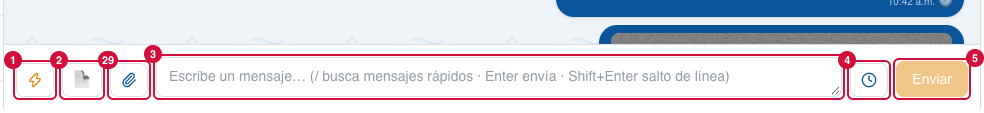
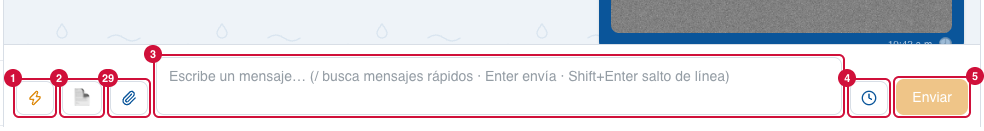
fix(chat+automatizacion): comandos con ñ (/tamaños) y caja para escribir que crece sola
- Comando del vendedor: acepta la ñ (letras sin acento, números y guiones).
  Una sola regla en lib/workflows/steps.ts (NFC: la ñ pegada como n + tilde
  cuenta igual); el hilo y el composer ya no tienen copia propia. El menú "/"
  encuentra comandos sin importar acentos ni la ñ ("/taman" → /tamaños).
- Caja para escribir: empieza con 2 renglones y crece sola desde el 3.º hasta
  el 40 % de la pantalla; después se desliza por dentro. Vacía no se mide por el
  texto gris (sin brinco). El historial sigue pegado abajo mientras crece.
- Docs: mapa-crm (Glosario, caja 3 y 7, Automatización 22, captura nueva
  04-composer-largo y 04-composer rehecha) y bandeja.md.

Sin migración.

diff --git a/app/(app)/dashboard/_components/composer.tsx b/app/(app)/dashboard/_components/composer.tsx
@@ -11,7 +11,9 @@
 // Adjuntos (28-sep-2026): 📎 abre el selector, Cmd+V pega una foto o captura y
 // arriba de la caja va la vista previa; el texto, si hay, sale como pie del
 // PRIMER archivo. Enviar espera a que todos terminen de subir.
-import { useEffect, useRef, useState } from "react";
+// La caja empieza con 2 renglones y crece sola desde el 3.º (28-sep-2026: lo
+// escrito se perdía arriba); pasado el tope (max-h) se desliza por dentro.
+import { useEffect, useLayoutEffect, useRef, useState } from "react";
 import { Clock, Paperclip, Zap } from "lucide-react";
 import { CHAT_CAPTION_MAX } from "@/lib/chat-attachments/rules";
 import { AttachmentTray } from "./attachment-tray";
@@ -19,12 +21,33 @@ import type { ChatAttachments } from "./use-chat-attachments";
 import { useSession } from "@/lib/auth/client";
 import { listSnippets } from "@/lib/actions/snippets";
 import { listWorkflowCommands } from "@/lib/actions/workflows";
-import { applySlashInsert, filterSnippets, findSlashQuery } from "@/lib/snippets/slash";
+import { applySlashInsert, filterSnippets, findSlashQuery, normalizeForSearch } from "@/lib/snippets/slash";
 import type { SnippetView } from "@/lib/snippets/types";
 import { renderSnippet } from "@/lib/snippets/variables";
+import { parseCommand } from "@/lib/workflows/steps";
 import { ScheduleForm } from "./schedule-form";
 import { SnippetPicker } from "./snippet-picker";
 import { TemplatePicker } from "./template-picker";
+
+// Alto justo para el texto, entre los 2 renglones de `rows` y el max-height de la clase.
+// Vacía se queda en 2 renglones: Chrome mide también el texto gris de ayuda, y
+// la caja daría un brinco al escribir la primera letra.
+function fitToContent(el: HTMLTextAreaElement) {
+  if (!el.value) {
+    el.style.height = "";
+    el.style.overflowY = "";
+    return;
+  }
+  const style = getComputedStyle(el);
+  const borders = parseFloat(style.borderTopWidth) + parseFloat(style.borderBottomWidth);
+  const max = parseFloat(style.maxHeight) || Number.POSITIVE_INFINITY;
+  const scrollTop = el.scrollTop;
+  el.style.height = "auto";
+  const wanted = el.scrollHeight + borders;
+  el.style.height = `${Math.min(wanted, max)}px`;
+  el.style.overflowY = wanted > max ? "auto" : "hidden";
+  el.scrollTop = scrollTop;
+}
 
 export function Composer({
   conversationId,
@@ -79,9 +102,11 @@ export function Composer({
   const slashOpen = slash !== null;
   const slashQuery = slash?.query ?? null;
   const matches = slashQuery !== null && snippets ? filterSnippets(snippets, slashQuery) : [];
+  // Sin acentos ni ñ para buscar: "/taman" también encuentra /tamaños.
+  const commandQuery = slashQuery !== null ? normalizeForSearch(slashQuery) : null;
   const commandMatches =
-    slashQuery !== null
-      ? commands.filter((c) => c.command.slice(1).startsWith(slashQuery.toLowerCase()) || c.name.toLowerCase().includes(slashQuery.toLowerCase()))
+    commandQuery !== null
+      ? commands.filter((c) => normalizeForSearch(c.command.slice(1)).startsWith(commandQuery) || normalizeForSearch(c.name).includes(commandQuery))
       : [];
 
   // Carga los fragmentos la primera vez que se abre el buscador con "/".
@@ -114,6 +139,26 @@ export function Composer({
       pendingCaret.current = null;
     }
   }, [draft]);
+
+  // Crece o encoge con cada cambio del texto (escribir, pegar, insertar, enviar).
+  useLayoutEffect(() => {
+    const el = textareaRef.current;
+    if (el) fitToContent(el);
+  }, [draft, windowOpen]);
+
+  // Y cuando cambia el ancho (abrir o cerrar la lista o el panel re-acomoda los renglones).
+  useEffect(() => {
+    const el = textareaRef.current;
+    if (!el || typeof ResizeObserver === "undefined") return;
+    let width = el.clientWidth;
+    const observer = new ResizeObserver(() => {
+      if (el.clientWidth === width) return;
+      width = el.clientWidth;
+      fitToContent(el);
+    });
+    observer.observe(el);
+    return () => observer.disconnect();
+  }, [windowOpen]);
 
   function fill(body: string): string {
     return sellerName ? renderSnippet(body, { vendedor: sellerName }) : body;
@@ -393,7 +438,8 @@ export function Composer({
               event.preventDefault();
               // Solo si el texto es EXACTAMENTE el comando ("/tabla"), nunca por prefijo:
               // "/t" + Enter no debe mandar nada al cliente.
-              const exact = commands.find((c) => c.command === draft.trim().toLowerCase());
+              const typed = parseCommand(draft);
+              const exact = typed ? commands.find((c) => c.command === typed) : undefined;
               if (exact) runCommand(exact.command);
               return;
             }
@@ -424,12 +470,12 @@ export function Composer({
               submit();
             }
           }}
-          rows={1}
+          rows={2}
           aria-autocomplete="list"
           placeholder={
             hasFiles ? "Agrega un mensaje (opcional)" : "Escribe un mensaje… (/ busca mensajes rápidos · Enter envía · Shift+Enter salto de línea)"
           }
-          className="max-h-32 min-h-[40px] flex-1 resize-y rounded-md border bg-background px-3 py-2 text-sm outline-none transition-colors placeholder:text-muted-foreground/60 focus:border-brand-navy focus:ring-2 focus:ring-brand-navy/30"
+          className="max-h-[40vh] flex-1 resize-none overflow-y-hidden rounded-md border bg-background px-3 py-2 text-sm outline-none transition-colors placeholder:text-muted-foreground/60 focus:border-brand-navy focus:ring-2 focus:ring-brand-navy/30"
         />
         <button
           type="button"

diff --git a/app/(app)/dashboard/_components/chat-thread.tsx b/app/(app)/dashboard/_components/chat-thread.tsx
@@ -5,6 +5,7 @@ import type { AdReferral, AttachmentView, ConversationDetail, MessageView } from
 import { useFunnelStages } from "../../_components/funnel-stages-provider";
 import { listMessages, retryMessage, sendMessage, sendTemplate } from "@/lib/inbox/actions";
 import { runWorkflowCommand } from "@/lib/actions/workflows";
+import { parseCommand } from "@/lib/workflows/steps";
 import { sendAttachments } from "@/lib/inbox/attachment-actions";
 import { attachmentAcceptAttr } from "@/lib/chat-attachments/rules";
 import { Composer } from "./composer";
@@ -403,11 +404,23 @@ export function ChatThread({
     }
   }, [rows.length, lastKey, scheduledCount, conversationId, noticeCount]);
 
+  // La caja para escribir crece con el texto (28-sep-2026) y encoge el
+  // historial: si el vendedor estaba abajo, el último mensaje sigue a la vista.
+  useEffect(() => {
+    const el = scrollRef.current;
+    if (!el || typeof ResizeObserver === "undefined") return;
+    const observer = new ResizeObserver(() => {
+      if (nearBottomRef.current) el.scrollTop = el.scrollHeight;
+    });
+    observer.observe(el);
+    return () => observer.disconnect();
+  }, []);
+
   // "/tabla" y similares (Fase D): si el texto es un comando de workflow, se
   // dispara la automatización; si no corresponde a ninguno, sale como texto.
   const [commandNotice, setCommandNotice] = useState<string | null>(null);
   async function doSendOrCommand(text: string) {
-    if (!/^\/[a-z0-9][a-z0-9-]{0,29}$/i.test(text.trim())) return doSend(text);
+    if (!parseCommand(text)) return doSend(text);
     const result = await runWorkflowCommand({ conversationId, text });
     if (!result.ok) {
       if ("notCommand" in result) return doSend(text);

diff --git a/lib/workflows/steps.ts b/lib/workflows/steps.ts
@@ -44,11 +44,19 @@ export function sendsToCustomer(step: StepPayload): boolean {
 }
 
 // Comando del vendedor: "/algo" en minúsculas, sin espacios; null = sin comando.
+// Letras sin acento y la ñ (28-sep-2026, pedido del dueño: "/tamaños"), números
+// y guiones. Única definición: el editor, el composer y el hilo pasan por aquí.
+const COMMAND_RE = /^\/[a-z0-9ñ][a-z0-9ñ-]{0,29}$/;
+
+// NFC: una "ñ" pegada como "n" + tilde combinada cuenta igual que la del teclado.
+function normalizeCommand(text: string): string {
+  return text.normalize("NFC").trim().toLowerCase();
+}
+
 export const commandSchema = z
   .string()
-  .trim()
-  .toLowerCase()
-  .regex(/^\/[a-z0-9][a-z0-9-]{0,29}$/, "Un comando es /palabra (letras, números y guiones).")
+  .transform(normalizeCommand)
+  .pipe(z.string().regex(COMMAND_RE, "Un comando es /palabra: letras sin acento (la ñ sí), números y guiones."))
   .nullable();
 
 // Palabras clave del cliente: 1–5 palabras cada una, sin repetir, máx. 20.
@@ -105,8 +113,8 @@ export function stripUnresolvedVariables(text: string): string {
 
 // Un comando del vendedor es el mensaje ENTERO ("/tabla"), sin texto extra.
 export function parseCommand(message: string): string | null {
-  const t = message.trim().toLowerCase();
-  return /^\/[a-z0-9][a-z0-9-]{0,29}$/.test(t) ? t : null;
+  const t = normalizeCommand(message);
+  return COMMAND_RE.test(t) ? t : null;
 }
 
 // Pasos "Esperar" (28-sep-2026, pedido del dueño): un "/" del VENDEDOR (trigger

diff --git a/lib/workflows/steps.test.ts b/lib/workflows/steps.test.ts
@@ -42,6 +42,17 @@ describe("comandos y palabras clave", () => {
     expect(parseCommand("/banco ahora")).toBeNull();
     expect(parseCommand("hola /banco")).toBeNull();
   });
+  it("comando con ñ (/tamaños): se acepta, en minúsculas y igual si la ñ llega descompuesta; acentos no", () => {
+    const decomposed = "/taman\u0303os"; // "n" + tilde combinada (texto pegado)
+    expect(commandSchema.parse(" /Tamaños ")).toBe("/tamaños");
+    expect(commandSchema.parse("/ÑANDU")).toBe("/ñandu");
+    expect(commandSchema.parse(decomposed)).toBe("/tamaños");
+    expect(() => commandSchema.parse("/tamaño-estándar")).toThrow(/la ñ sí/);
+    expect(() => commandSchema.parse("/-tamaños")).toThrow();
+    expect(parseCommand("/TAMAÑOS")).toBe("/tamaños");
+    expect(parseCommand(decomposed)).toBe("/tamaños");
+    expect(parseCommand("/tamaños por favor")).toBeNull();
+  });
   it("palabras clave: sin duplicados, coincidencia 'contiene' como GHL, sin mayúsculas ni acentos", () => {
     expect(keywordsSchema.parse(["Tabla", "tabla", "tamaños"])).toEqual(["tabla", "tamaños"]);
     expect(matchesKeyword("Me pasas la TABLA de tamanos?", ["tabla"])).toBe("tabla");

diff --git a/docs/mapa-crm.md b/docs/mapa-crm.md
@@ -49,7 +49,7 @@ Nadie es "dueño" de un contacto: **todos ven todos los contactos, siempre**.
 | **Plantilla** | Mensaje fijo **aprobado por Meta** para escribir fuera de la ventana de 24 h. Sus huecos se llaman {{1}}, {{2}}… |
 | **Mensaje rápido** | Respuesta guardada por el equipo para contestar más rápido dentro de las 24 h (antes se llamaba "Fragmento"). Se inserta con "/" o con ⚡ y **no se manda sola**: la revisas y le das Enviar. Si lleva {{vendedor}}, se llena solo con tu nombre; {{nombre}} lo completas tú. Diluvium tiene 22 (Buenos días, Precio, Pagos…). |
 | **Workflow** | Secuencia de pasos (texto, archivo con pie, espera) que manda material: tabla de tamaños, datos bancarios, videos. Lo dispara el agente, un **comando** del vendedor, una **palabra clave** del cliente o la entrada a una etapa. Las **esperas** solo aplican al agente, a la palabra clave y a la etapa: con un comando del vendedor sale de inmediato. |
-| **Comando** | Atajo que escribe el vendedor en el chat para mandar un workflow: /tabla, /banco, /video… Sale **de inmediato** (se salta los pasos ⏱ Esperar); el cliente lo recibe en lo que tarda WhatsApp (~5 s). |
+| **Comando** | Atajo que escribe el vendedor en el chat para mandar un workflow: /tabla, /banco, /video… Se escribe con letras sin acento (la **ñ** sí: /tamaños), números y guiones. Sale **de inmediato** (se salta los pasos ⏱ Esperar); el cliente lo recibe en lo que tarda WhatsApp (~5 s). |
 | **Adjuntar (📎)** | Mandar fotos, videos o documentos desde el chat: se arrastran sobre el chat, se eligen con 📎 o se pegan con Cmd+V. Hasta **10 por envío**, uno por mensaje y en orden; el texto va como pie del primero. Fotos JPG/PNG (HEIC y WebP se pasan solas a JPG), video .mp4 hasta 16 MB, PDF/Word/Excel/PowerPoint/TXT/XML hasta 100 MB. GIF, ZIP o audio: se mandan desde el celular. |
 | **Corrida** | Cada vez que un workflow se ejecutó (Hecho, Omitido, Falló…). |
 | **Biblioteca** | Los archivos (imágenes y videos) que usan los workflows. |
@@ -273,6 +273,7 @@ Donde el vendedor escribe. Con la ventana de 24 h abierta se escribe libre y se 
 solo plantilla (y no se pueden adjuntar).
 
 ![Caja para escribir](mapa-crm/04-composer.png)
+![Mensaje largo: la caja crece para que se vea todo](mapa-crm/04-composer-largo.png)
 ![Capa al arrastrar archivos sobre el chat](mapa-crm/04-composer-capa.png)
 ![Archivos adjuntos antes de enviar](mapa-crm/04-composer-adjuntos.png)
 ![Menú al escribir "/"](mapa-crm/04-composer-slash.png)
@@ -286,11 +287,11 @@ solo plantilla (y no se pueden adjuntar).
 |---|---|---|---|
 | 1 | **⚡ Mensajes rápidos** | Abre la ventana de mensajes rápidos (27–28) para insertar uno. | Todos |
 | 2 | **📄 Plantillas** | Abre las plantillas aprobadas por Meta. | Todos |
-| 3 | **Escribe un mensaje…** | Caja de texto. **Enter** envía, **Shift+Enter** hace salto de línea, **"/"** busca mensajes rápidos (el texto gris dice "/ busca mensajes rápidos"). **Cmd+V** con una foto o captura de pantalla la adjunta. | Todos |
+| 3 | **Escribe un mensaje…** | Caja de texto. Empieza con 2 renglones y **crece sola** desde el 3.º para que se vea todo lo escrito (el historial se acomoda arriba); pasado el 40 % de la pantalla se desliza por dentro, y al enviar vuelve a 2 renglones. **Enter** envía, **Shift+Enter** hace salto de línea, **"/"** busca mensajes rápidos (el texto gris dice "/ busca mensajes rápidos"). **Cmd+V** con una foto o captura de pantalla la adjunta. | Todos |
 | 4 | **🕒 Programar mensaje** | Abre el formulario para programar. Con archivos adjuntos se apaga: programar no lleva archivos por ahora. | Todos |
 | 5 | **Enviar** (naranja) | Manda el mensaje. Con archivos, se activa cuando **todos terminaron de subir**; salen uno por mensaje en el orden de la vista previa y el texto va como pie del primero. | Todos |
 | 6 | **⚡ Mensajes rápidos** (menú del "/") | Menú que aparece al escribir "/". | Todos |
-| 7 | **Automatizaciones** | Comandos de workflows (/tabla, /banco, /video…) con "▶ ejecutar": manda ese material en el chat **de inmediato** (sin los pasos ⏱ Esperar del workflow). Cuenta como mensaje del vendedor. | Todos |
+| 7 | **Automatizaciones** | Comandos de workflows (/tabla, /banco, /video…) con "▶ ejecutar": manda ese material en el chat **de inmediato** (sin los pasos ⏱ Esperar del workflow). Cuenta como mensaje del vendedor. Se encuentran sin importar acentos ni la ñ ("/taman" encuentra /tamaños). | Todos |
 | 8 | **Lista de mensajes rápidos** | Nombre y texto; al elegir uno se pone en lugar del "/". Solo {{vendedor}} se llena solo (con tu nombre); {{nombre}} lo completas tú. | Todos |
 | 9 | **↑↓ elegir · Enter insertar · Esc cerrar** | Ayuda de teclas del menú. | Todos |
 | 10 | **"/" en la caja** | Lo que escribes después de "/" filtra la lista por nombre y texto, sin importar acentos ni mayúsculas ("cuanta" encuentra "Cuánta agua entra"). | Todos |
@@ -711,7 +712,7 @@ Los **workflows** (envíos de material), la **Biblioteca** de archivos y las **C
 | 19 | **Cuándo usarlo** | Texto que lee el agente para decidir si lo manda. | Todos |
 | 20 | **Disparadores** | Las formas de dispararlo (21–24). | Todos |
 | 21 | **El Agente IA puede dispararlo** | Casilla. | Todos |
-| 22 | **Comando del vendedor (en el chat)** | p. ej. /tabla. | Todos |
+| 22 | **Comando del vendedor (en el chat)** | p. ej. /tabla. Letras sin acento (la **ñ** sí: /tamaños), números y guiones; si lleva acento o espacio, no se guarda y lo avisa arriba. | Todos |
 | 23 | **Al entrar a la etapa** | Se manda solo cuando el contacto entra a esa etapa. | Todos |
 | 24 | **Palabras clave del cliente** | Separadas por coma; palabra completa, sin importar acentos. | Todos |
 | 25 | **Pasos (en orden)** | Lo que manda, de arriba a abajo. | Todos |

diff --git a/docs/bandeja.md b/docs/bandeja.md
@@ -55,6 +55,9 @@ El chat es un solo componente reutilizado en las dos secciones.
 - **Anuncio de clic a WhatsApp:** tarjeta compacta "📣 Llegó por anuncio" con titular y miniatura.
   NUNCA el volcado crudo (ctwaClid, mediaUrl, …). Ver `docs/investigacion/anuncios-ctwa.md`.
 - **Composer:** Enter envía, Shift+Enter salto de línea. Abrir la conversación la marca como leída.
+  La caja empieza con 2 renglones y crece sola desde el 3.º (28-sep-2026, pedido de un vendedor: lo escrito
+  se perdía arriba); tope 40 % de la pantalla, después se desliza por dentro. Si el vendedor estaba abajo en
+  el historial, el último mensaje sigue a la vista mientras la caja crece.
   ⚡ **Mensajes rápidos** y "/" ("/ busca mensajes rápidos"): ver abajo. **📎 Adjuntos** (arrastrar, 📎,
   Cmd+V): ver "Adjuntos en el chat".
 
